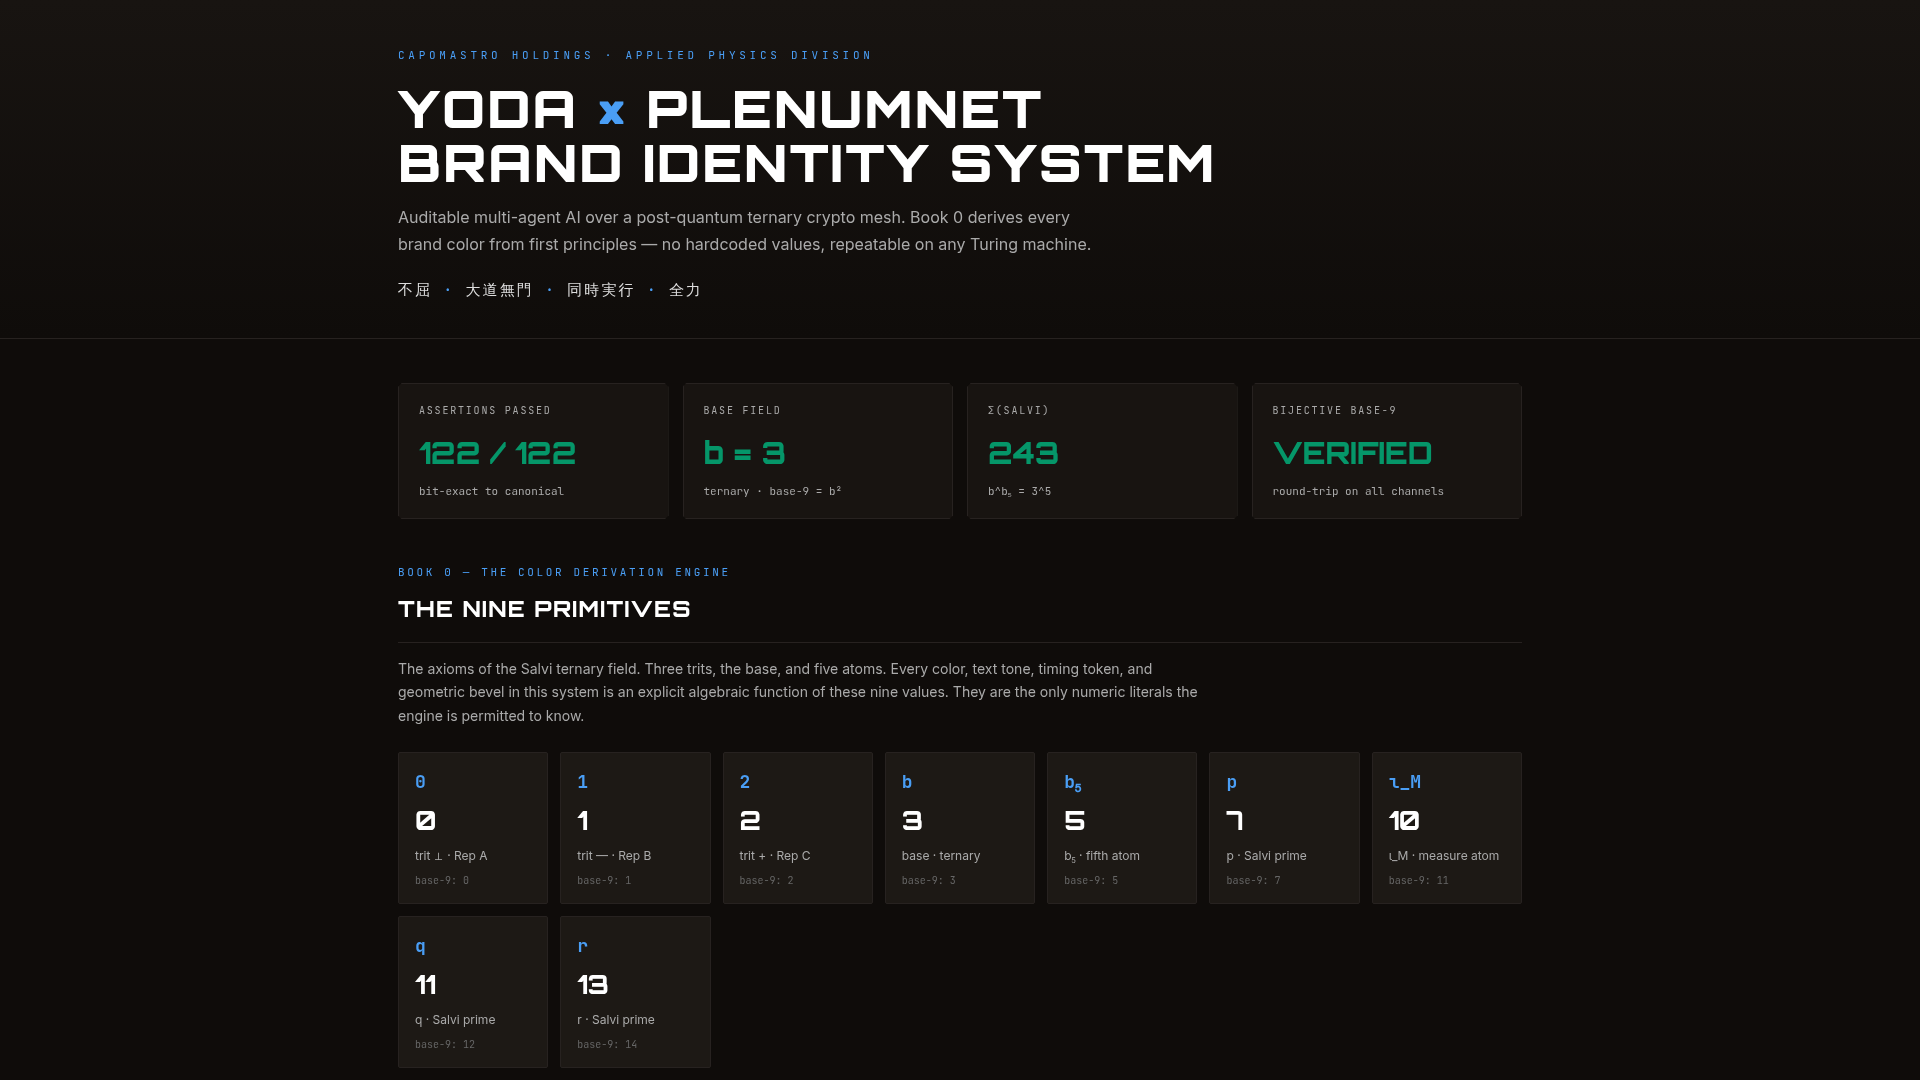
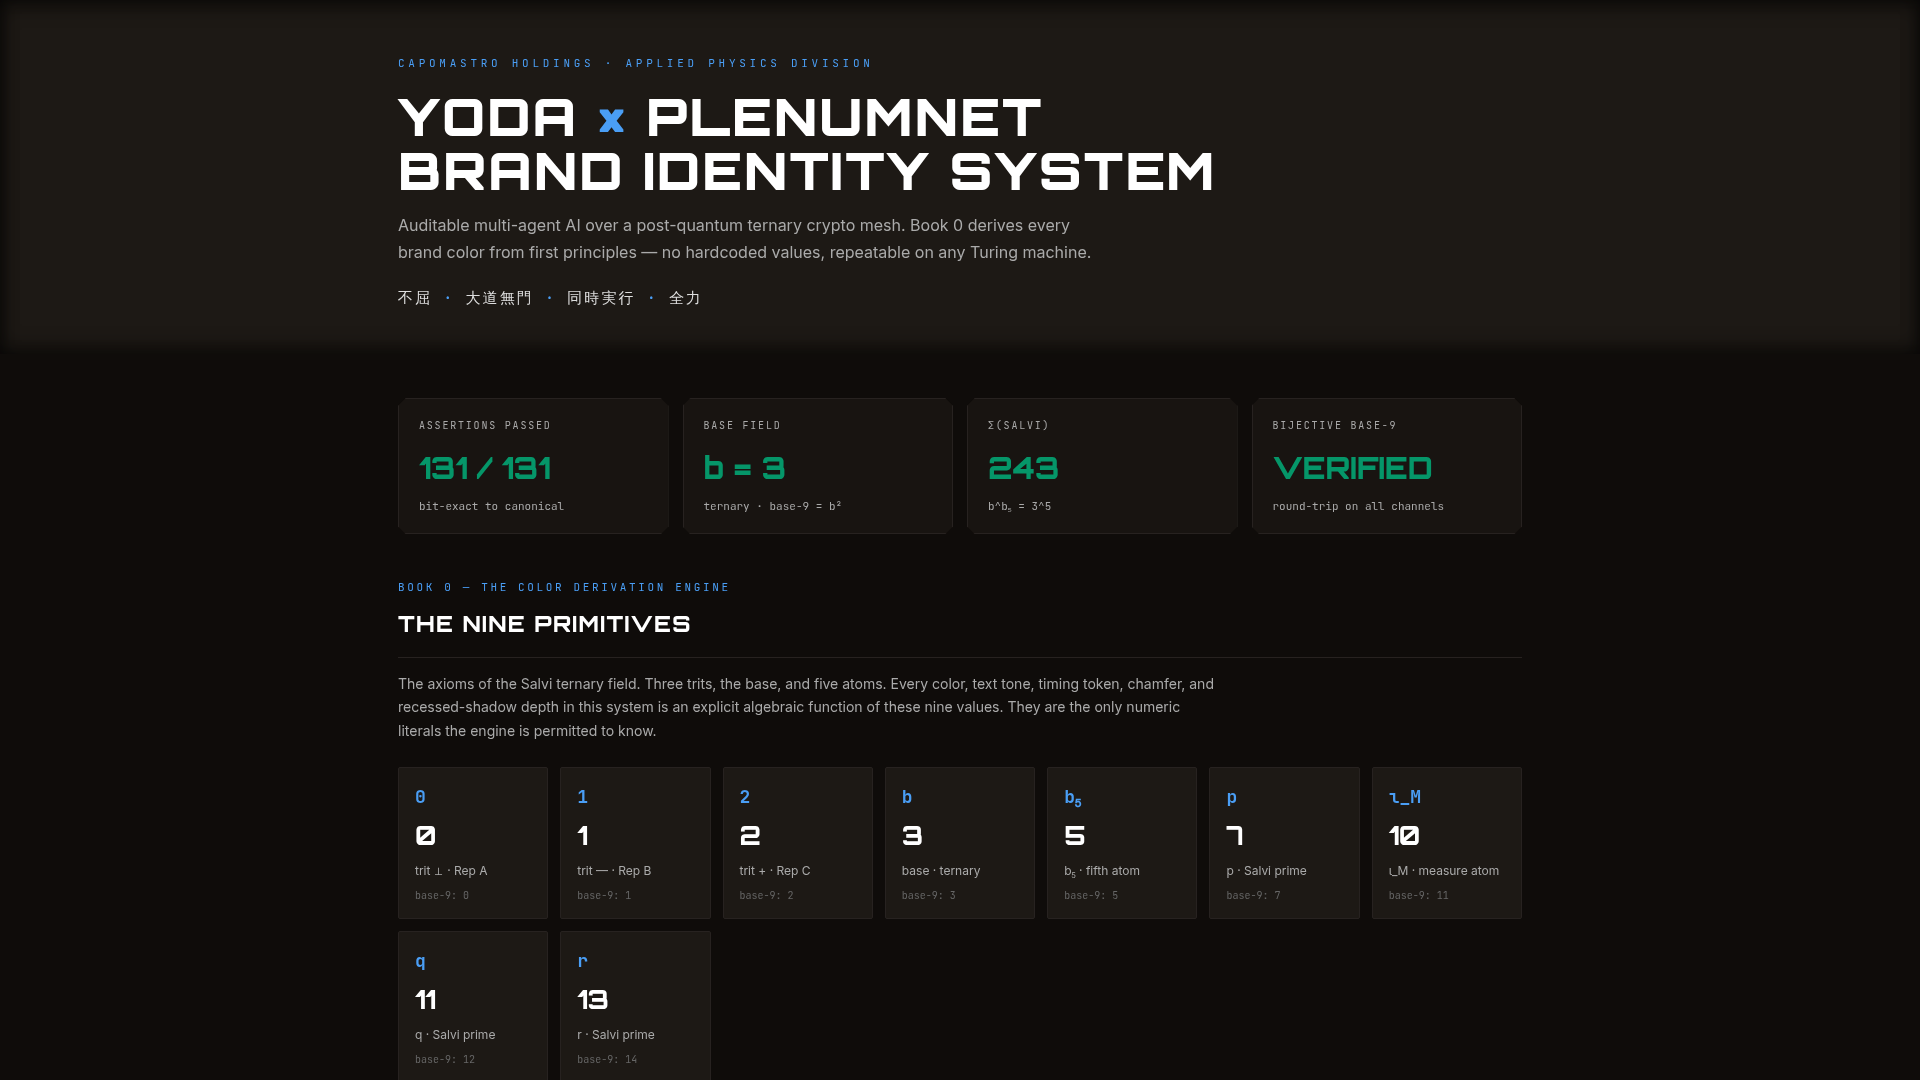
Brand Book 0: derive recessed sunken-3-D header from primitives
User complaint: the book didn't use the recessed header derivation as a
sunken 3-D effect, and the chamfer was wrong.

Changes to frontend/public/brand-book-0.html:
- Added GEOMETRY & DEPTH block deriving from the nine primitives: chamfer
  b+b5=8px (was wrongly b+1=4px; now matches BevelBox.tsx), border TWO=2px,
  and a four-sided recessed inset box-shadow stack. Offsets/blurs/opacities
  all primitive-derived; opacities are integer percents over iM^2=100.
  Assembled --pn-recess is bit-exact to the canonical Array-3 monitor spec.
- Masthead now renders as a genuine sunken well (box-shadow: var(--pn-recess)),
  replacing the flat border-bottom.
- New "Book II — Recessed Geometry" section: live recessed-well vs raised-panel
  demo + derived-params table rendered from window.__ENGINE.geom.
- Added 10 non-circular canonical assertions for all depth params.
  Node harness now 131/131 (was 122/122).
- Updated intro/Book II copy from "geometric bevel" to chamfer + recessed depth.

Rebuilt frontend (dist == public), verified served HTTP + screenshot shows the
recessed masthead. Refreshed deliverables/brand-book-0.zip.
Architect review: PASS.

No git push performed (that was a prior, already-merged task); local commit
is auto-managed.

diff --git a/frontend/public/brand-book-0.html b/frontend/public/brand-book-0.html
@@ -15,7 +15,7 @@
      BOOK 0 — THE COLOR DERIVATION ENGINE
      Runs in <head> so the FIRST paint already uses derived variables.
      No hardcoded output integers: every color, text tone, timing token,
-     and geometric bevel is an explicit algebraic function of the NINE
+     chamfer, and recessed-shadow depth is an explicit algebraic function of the NINE
      PRIMITIVES. Any Turing machine can reconstruct the palette from the
      axioms alone. Deterministic. Platform-independent. Repeatable.
      ===================================================================== -->
@@ -165,8 +165,31 @@
     { key: "reveal",  formula: "2b·ι_M²",        canon9: "736", fn: function(){ return P.TWO * P.b * P.iM * P.iM; } } // 600
   ];
 
-  /* ---- GEOMETRY (Book II): chamfer bevel derived from the primitives ---- */
-  var BEVEL = P.b + P.ONE;  // 4px
+  /* ==================== GEOMETRY & DEPTH (Book II) ====================
+     The brand's physical language: an 8px 45° chamfer, and a RECESSED
+     "sunken well" header rendered as a four-sided inset shadow — the same
+     depth signature used on the Array-3 monitor panels. Every length, blur
+     radius, and shadow opacity is derived from the primitives; opacities are
+     integer percentages over the denominator ι_M² = 100.                    */
+  var CHAMFER = P.b + P.b5;        // 8px — the 45° corner cut (matches BevelBox)
+  var BORDER  = P.TWO;             // 2px — perimeter border / inset content margin
+  var PCT     = P.iM * P.iM;       // 100 — opacity denominator (ι_M²)
+
+  /* Recessed (sunken) inset-shadow stack — top/bottom heavy, sides lighter. */
+  var R_OFF_V  = P.b + P.b5;       //  8  top & bottom shadow offset
+  var R_BLUR_V = P.TWO * sq;       // 18  top & bottom blur radius (2b²)
+  var R_A_V    = P.b5 * P.p + P.b; // 38  top & bottom opacity %  (b₅·p + b)
+  var R_OFF_H  = P.TWO * P.b;      //  6  left & right shadow offset (2b)
+  var R_BLUR_L = P.TWO * P.p;      // 14  left blur radius (2p = π)
+  var R_A_L    = P.TWO * P.q;      // 22  left opacity %  (2q)
+  var R_BLUR_R = P.iM;             // 10  right blur radius (ι_M)
+  var R_A_R    = P.TWO * sq;       // 18  right opacity %  (2b²)
+  function alpha(pct) { return pct / PCT; }   // integer % → 0..1 (pure black)
+  var RECESS =
+    "inset 0 "   + R_OFF_V + "px " + R_BLUR_V + "px rgba(0,0,0," + alpha(R_A_V) + "), " +
+    "inset 0 -"  + R_OFF_V + "px " + R_BLUR_V + "px rgba(0,0,0," + alpha(R_A_V) + "), " +
+    "inset -"    + R_OFF_H + "px 0 " + R_BLUR_L + "px rgba(0,0,0," + alpha(R_A_L) + "), " +
+    "inset "     + R_OFF_H + "px 0 " + R_BLUR_R + "px rgba(0,0,0," + alpha(R_A_R) + ")";
 
   /* ============================ EXECUTION ============================ */
   var assertions = [];
@@ -226,16 +249,44 @@
     timingDerived.push({ key: t.key, ms: ms, formula: t.formula, canon9: t.canon9, sec: (ms / (P.iM * P.iM * P.iM)) });
   });
 
-  root.style.setProperty("--pn-bevel", BEVEL + "px");
-  assert("bevel = b+1 px", BEVEL, P.TWO * P.TWO);
+  /* Geometry & depth: derive, verify each vs canonical, apply as CSS vars. */
+  root.style.setProperty("--pn-bevel",    CHAMFER + "px");
+  root.style.setProperty("--pn-chamfer",  CHAMFER + "px");
+  root.style.setProperty("--pn-border-w", BORDER + "px");
+  root.style.setProperty("--pn-recess",   RECESS);
+  assert("chamfer = b+b₅ (8px)",          CHAMFER,  P.TWO * (P.b + P.ONE));
+  assert("border = 2px",                  BORDER,   P.b - P.ONE);
+  assert("recess.offset-v = canonical 8", R_OFF_V,  P.TWO * (P.b + P.ONE));
+  assert("recess.blur-v = canonical 18",  R_BLUR_V, P.b5 + P.r);
+  assert("recess.opacity-v = canonical 38",R_A_V,   P.r * P.b - P.ONE);
+  assert("recess.offset-h = canonical 6", R_OFF_H,  P.p - P.ONE);
+  assert("recess.blur-l = canonical 14",  R_BLUR_L, P.r + P.ONE);
+  assert("recess.opacity-l = canonical 22",R_A_L,   k12 + P.iM);
+  assert("recess.blur-r = canonical 10",  R_BLUR_R, P.b + P.p);
+  assert("recess.opacity-r = canonical 18",R_A_R,   P.b5 + P.r);
 
   var passed = assertions.filter(function (a) { return a.ok; }).length;
 
   /* Publish results for the reveal renderer. */
   window.__ENGINE = {
     primitives: P, sq: sq, cube: cube, pi: pi, sigma: sigma, k12: k12, k15: k15,
-    k17: k17, MAX: MAX, HEXR: HEXR, B9: B9, bevel: BEVEL,
+    k17: k17, MAX: MAX, HEXR: HEXR, B9: B9, bevel: CHAMFER, chamfer: CHAMFER,
     palette: derived, text: textDerived, timing: timingDerived,
+    geom: {
+      chamfer: CHAMFER, border: BORDER, recess: RECESS,
+      params: [
+        { k: "chamfer",   label: "45° corner cut",     formula: "b + b₅",      val: CHAMFER,  unit: "px" },
+        { k: "border",    label: "perimeter / inset",  formula: "TWO",         val: BORDER,   unit: "px" },
+        { k: "offset-v",  label: "top / bottom offset", formula: "b + b₅",     val: R_OFF_V,  unit: "px" },
+        { k: "blur-v",    label: "top / bottom blur",  formula: "2b²",         val: R_BLUR_V, unit: "px" },
+        { k: "opacity-v", label: "top / bottom alpha", formula: "(b₅p + b)/ι_M²", val: R_A_V, unit: "%" },
+        { k: "offset-h",  label: "left / right offset", formula: "2b",         val: R_OFF_H,  unit: "px" },
+        { k: "blur-l",    label: "left blur (= π)",    formula: "2p",          val: R_BLUR_L, unit: "px" },
+        { k: "opacity-l", label: "left alpha",         formula: "2q / ι_M²",   val: R_A_L,    unit: "%" },
+        { k: "blur-r",    label: "right blur (= ι_M)", formula: "ι_M",         val: R_BLUR_R, unit: "px" },
+        { k: "opacity-r", label: "right alpha",        formula: "2b² / ι_M²",  val: R_A_R,    unit: "%" }
+      ]
+    },
     assertions: assertions, passed: passed, total: assertions.length,
     toBase9: toBase9
   };
@@ -263,13 +314,41 @@
 
   .wrap { max-width: 1180px; margin: 0 auto; padding: 0 28px; }
 
-  /* ---- Masthead ---- */
+  /* ---- Masthead — RECESSED sunken 3-D well (depth from --pn-recess) ---- */
   header.masthead {
-    border-bottom: 1px solid var(--pn-border);
-    background: linear-gradient(180deg, var(--pn-panel), var(--pn-bg));
-    padding: 46px 0 34px;
+    background: var(--pn-surface);
+    box-shadow: var(--pn-recess);
+    padding: 54px 0 42px;
     margin-bottom: 44px;
+    position: relative;
   }
+
+  /* ---- Chamfer utility (derived --pn-chamfer, matches BevelBox 8px cut) ---- */
+  .chamfered {
+    clip-path: polygon(var(--pn-chamfer) 0, calc(100% - var(--pn-chamfer)) 0,
+      100% var(--pn-chamfer), 100% calc(100% - var(--pn-chamfer)),
+      calc(100% - var(--pn-chamfer)) 100%, var(--pn-chamfer) 100%,
+      0 calc(100% - var(--pn-chamfer)), 0 var(--pn-chamfer));
+  }
+
+  /* ---- Depth specimens: recessed well vs. raised panel ---- */
+  .depth { display: grid; grid-template-columns: repeat(auto-fit, minmax(300px, 1fr)); gap: 18px; margin: 6px 0 26px; }
+  .well {
+    background: var(--pn-surface);
+    box-shadow: var(--pn-recess);
+    padding: 34px 30px;
+  }
+  .raised {
+    background: var(--pn-panel);
+    border: var(--pn-border-w) solid var(--pn-border);
+    padding: 34px 30px;
+  }
+  .depth .dl { font-family: var(--mono); font-size: 10px; letter-spacing: 0.18em; text-transform: uppercase;
+    color: var(--pn-text-label); margin-bottom: 12px; }
+  .depth .dt { font-family: var(--display); font-weight: 800; font-size: clamp(20px, 3vw, 28px);
+    letter-spacing: 0.05em; text-transform: uppercase; color: var(--pn-text-heading); line-height: 1.1; }
+  .depth .dt b { color: var(--pn-blue); }
+  .depth .dd { font-family: var(--mono); font-size: 11px; color: var(--pn-text-faint); margin-top: 12px; }
   .eyebrow { font-family: var(--mono); font-size: 11px; letter-spacing: 0.34em;
     text-transform: uppercase; color: var(--pn-blue); margin-bottom: 16px; }
   h1.title { font-family: var(--display); font-weight: 900; font-size: clamp(28px, 5vw, 52px);
@@ -393,7 +472,7 @@
     <h2>The Nine Primitives</h2>
     <div class="lead">
       The axioms of the Salvi ternary field. Three trits, the base, and five atoms.
-      Every color, text tone, timing token, and geometric bevel in this system is an
+      Every color, text tone, timing token, chamfer, and recessed-shadow depth in this system is an
       explicit algebraic function of these nine values. They are the only numeric
       literals the engine is permitted to know.
     </div>
@@ -445,6 +524,38 @@
     <table class="tbl">
       <thead><tr><th>Token</th><th>Formula</th><th>ms</th><th>seconds</th><th>Proof (base-9)</th></tr></thead>
       <tbody id="timing-body"></tbody>
+    </table>
+  </section>
+
+  <!-- BOOK II — RECESSED GEOMETRY -->
+  <section id="geometry">
+    <div class="book-tag">Book II — Recessed Geometry</div>
+    <h2>Depth, Derived</h2>
+    <div class="lead">
+      The panel is not flat. Its physical signature is an 8px 45° chamfer and a
+      <b>recessed, sunken-3-D header</b> — a four-sided inset shadow that reads as a
+      well carved into the surface, identical to the Array-3 monitor panels. Every
+      offset, blur radius, and shadow opacity below is derived from the primitives;
+      opacities are integer percentages over ι_M² = 100. The masthead at the top of
+      this page is rendered by the very tokens proven here.
+    </div>
+
+    <div class="depth">
+      <div class="well chamfered">
+        <div class="dl">Recessed · box-shadow: var(--pn-recess)</div>
+        <div class="dt">Sunken <b>3-D</b> Header</div>
+        <div class="dd" id="recess-css"></div>
+      </div>
+      <div class="raised chamfered">
+        <div class="dl">Raised · border + 8px chamfer</div>
+        <div class="dt">Chamfered <b>Panel</b></div>
+        <div class="dd">clip-path octagon · b + b₅ = 8px cut · 2px perimeter</div>
+      </div>
+    </div>
+
+    <table class="tbl">
+      <thead><tr><th>Token</th><th>Role</th><th>Formula</th><th>Value</th><th>Proof</th></tr></thead>
+      <tbody id="geom-body"></tbody>
     </table>
   </section>
 
@@ -526,8 +637,8 @@
         <p>Every hex value as a function of ( b, p, q, r ) and the nine primitives. Verified, bijective, repeatable.</p></div>
       <div class="bcard"><div class="bn">BOOK I</div><div class="bt">The Nine Primitives</div>
         <p>Axioms of the Salvi ternary field. Trits, base, atoms — the ground truth all else derives from.</p></div>
-      <div class="bcard"><div class="bn">BOOK II</div><div class="bt">Geometry of the Chamfer</div>
-        <p>Chamfered panels via clip-path polygons. The (b+1)px bevel is itself derived from the base.</p></div>
+      <div class="bcard"><div class="bn">BOOK II</div><div class="bt">Recessed Geometry</div>
+        <p>The 8px chamfer (b+b₅) and the recessed sunken-3-D header — a four-sided inset shadow — are derived from the primitives.</p></div>
       <div class="bcard"><div class="bn">BOOK III</div><div class="bt">The Imperial Grid</div>
         <p>Array3 triadic layout — Alpha, Beta, Gamma — a base-3 rhythm across every surface.</p></div>
       <div class="bcard"><div class="bn">BOOK VIII</div><div class="bt">Timing Token Stack</div>
@@ -674,6 +785,20 @@
     tr.appendChild(el("td", null, "<span class='mono' style='color:var(--pn-text-label)'>" + t.canon9 + "₉ = " + t.ms + " ✓</span>"));
     tmbody.appendChild(tr);
   });
+
+  /* Geometry & depth table */
+  var gbody = document.getElementById("geom-body");
+  E.geom.params.forEach(function (g) {
+    var tr = el("tr");
+    tr.appendChild(el("td", null, "<span class='mono'>" + g.k + "</span>"));
+    tr.appendChild(el("td", null, "<span style='color:var(--pn-text-body)'>" + g.label + "</span>"));
+    tr.appendChild(el("td", null, "<span class='formula'>" + g.formula + "</span>"));
+    tr.appendChild(el("td", null, "<span class='chan'><b>" + g.val + g.unit + "</b></span>"));
+    tr.appendChild(el("td", null, "<span class='badge ok'>derived ✓</span>"));
+    gbody.appendChild(tr);
+  });
+  var rc = document.getElementById("recess-css");
+  if (rc) rc.textContent = E.geom.recess;
 
   document.getElementById("foot-count").textContent = E.passed + "/" + E.total + " assertions ✓";
 })();